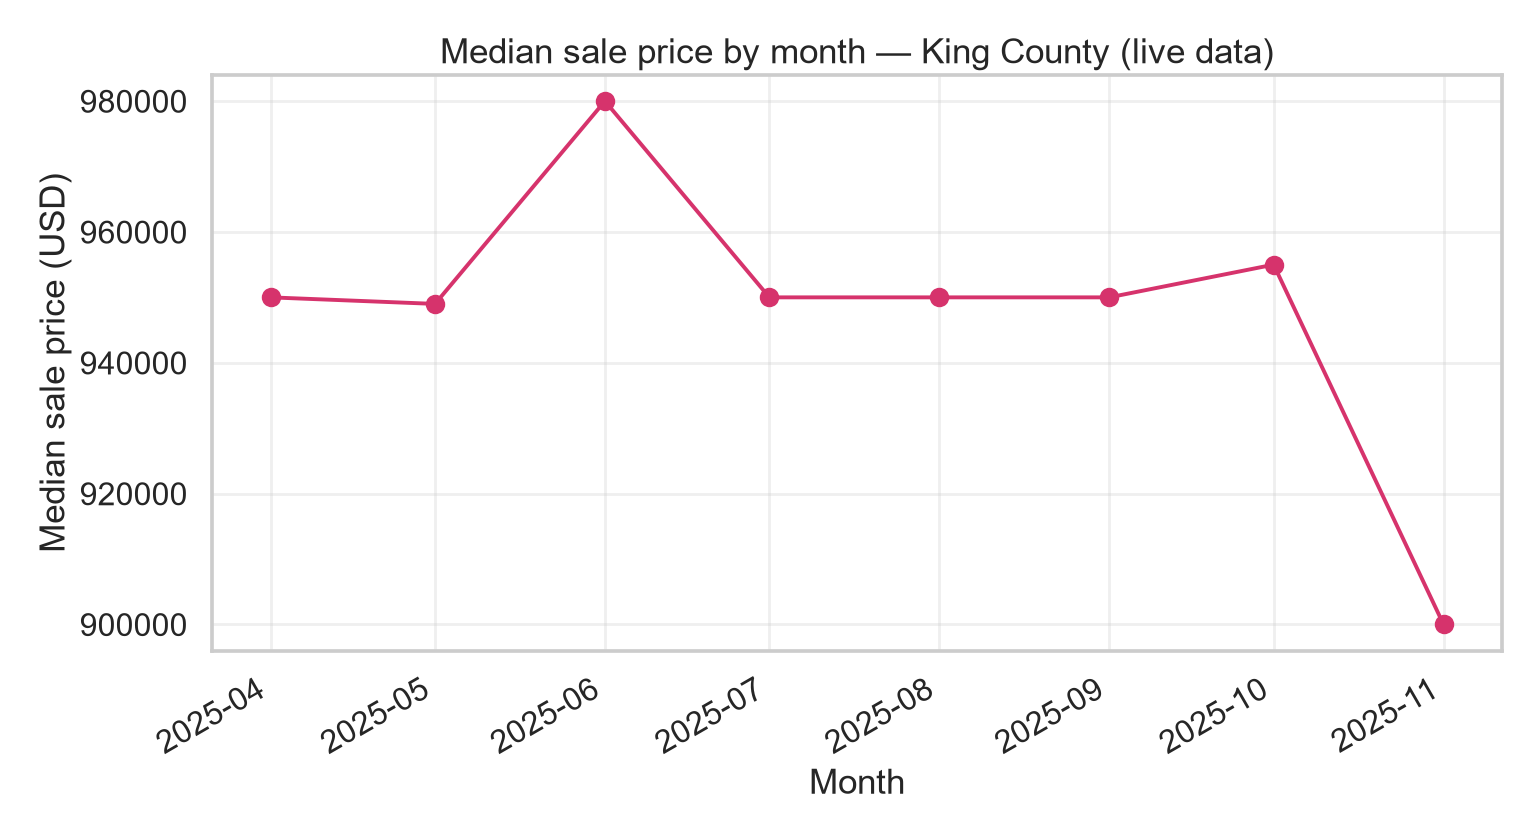
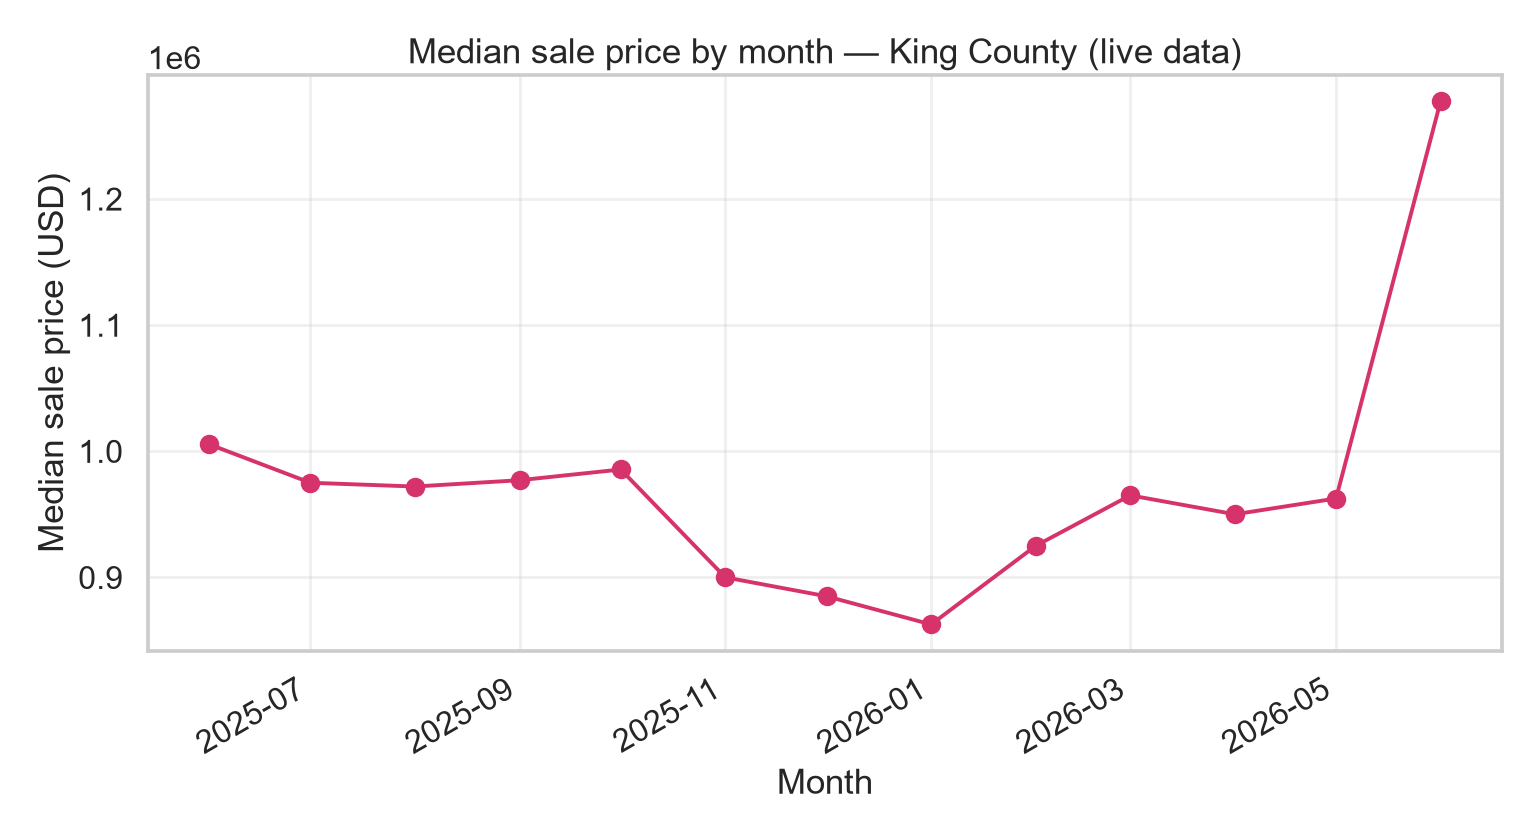
Rebuild market pipeline on current 2026 King County data
The live GIS Sales layer lags ~6 months (topped out at Nov 2025 with zero
2026 records). Switch the data source to the King County Assessor bulk
extracts (refreshed ~weekly; current through Jun 2026).

- Add scripts/build_joined_from_extracts.py: streams EXTR_RPSale +
  EXTR_Parcel + EXTR_RPAcct, applies the assessor valid-sale filter
  (warranty deed + arms-length reason + sale>=40% of assessed value),
  trims to the last 12 months, and enriches with situs ZIP/lot/use from
  the live GIS Parcel layer (which is current). Writes the same
  kc_market_joined.csv schema the downstream scripts already consume.
- current_market_analysis.py: prefer the fresh joined cache over a live
  GIS pull (dev_score_and_shoreline.py and shoreline_zip_map.py already
  read the cache, so no change needed there).
- Regenerate all outputs_current charts/CSVs on the 2025-06 -> 2026-06
  window (18,719 clean residential sales, 78 ZIPs).
- gitignore the large local extracts (data/, *.zip, *.geojson).

diff --git a/Median Zip code project/scripts/build_joined_from_extracts.py b/Median Zip code project/scripts/build_joined_from_extracts.py
@@ -1,0 +1,254 @@
+"""
+Build data/kc_market_joined.csv from the King County Assessor BULK EXTRACTS
+instead of the live GIS REST API.
+
+Why this exists
+---------------
+The live GIS Sales layer (KingCo_PropertyInfo MapServer/3) lags badly — as of
+mid-2026 it topped out at Nov-2025 sales with zero 2026 records. The Assessor's
+downloadable extracts (refreshed ~weekly) carry sales through the current month.
+This script reproduces the same joined schema the downstream scripts expect, so
+dev_score_and_shoreline.py and shoreline_zip_map.py (and the cache branch added
+to current_market_analysis.py) all run on fresh 2026 data with no other changes.
+
+Hybrid data sourcing
+--------------------
+Only the GIS *Sales* layer (Layer 3) lags; the GIS *Parcel* layer (Layer 2) is
+current. So we take the fresh 2026 SALES (dates + prices) from the bulk extract,
+but pull the PARCEL ATTRIBUTES (situs ZIP, lot sqft, present-use, situs address)
+from the live GIS Parcel layer for just the sold PINs. The bulk Account extract
+address is the TAXPAYER MAILING address (owners live nationwide -> hundreds of
+bogus ZIPs), so it is NOT used for the property location.
+
+Inputs (unzipped into data/kc_extract/ from the .zip extracts):
+    EXTR_RPSale.csv          - sales         (Major, Minor, DocumentDate, SalePrice, ...)
+    EXTR_Parcel.csv          - parcel filter (Major, Minor, PropType) -> residential pre-filter
+GIS:
+    KingCo_PropertyInfo MapServer/2 (Parcels) -> ZIP5, LOTSQFT, PREUSE_DESC, ADDR_FULL ...
+
+Output schema (matches the GIS-built cache exactly):
+    PIN, SaleDate, SalePrice, Principal_Use, Property_Type, address,
+    ZIP5, LOTSQFT, PREUSE_DESC, PROPTYPE, CTYNAME, POSTALCTYNAME, ADDR_FULL,
+    zip5, price_per_lot_sqft
+
+Methodology parity with the GIS pipeline:
+    - residential only        (parcel PropType == 'R')
+    - last 12 months           (relative to the max DocumentDate in the data)
+    - all sales in window kept  (not deduped to one-per-PIN)
+    - parcel attrs + situs ZIP from the live GIS Parcel layer (same as original)
+
+Valid-sale filter (the raw extract, unlike the GIS Sales layer, includes every
+recorded deed — quitclaims, gifts, estate settlements, partial-interest, etc.).
+We keep only true arms-length market sales using the King County assessor's
+standard criteria:
+    - SaleInstrument == 3   (Statutory Warranty Deed)
+    - SaleReason     == 1   (None / no special reason)
+    - SalePrice      >= 10,000
+"""
+
+from __future__ import annotations
+
+import csv
+import math
+import sys
+import time
+from pathlib import Path
+
+import pandas as pd
+import requests
+
+PROJECT_ROOT = Path(__file__).resolve().parent.parent
+DATA_DIR = PROJECT_ROOT / "data"
+EXTRACT_DIR = DATA_DIR / "kc_extract"
+OUT = DATA_DIR / "kc_market_joined.csv"
+
+SALES_CSV = EXTRACT_DIR / "EXTR_RPSale.csv"
+PARCEL_CSV = EXTRACT_DIR / "EXTR_Parcel.csv"
+ACCT_CSV = EXTRACT_DIR / "EXTR_RPAcct_NoName.csv"
+
+PARCEL_LAYER = (
+    "https://gismaps.kingcounty.gov/arcgis/rest/services/Property/"
+    "KingCo_PropertyInfo/MapServer/2/query"
+)
+PARCEL_PIN_BATCH = 400
+REQUEST_TIMEOUT = 60
+
+MIN_PRICE = 10_000
+LOOKBACK_MONTHS = 12
+ENC = "latin-1"
+
+# King County "valid sale" codes (see EXTR_LookUp.csv).
+# LUType 6 SaleInstrument: 2 = Warranty Deed, 3 = Statutory Warranty Deed.
+# Recent sales are coded 2 far more often than 3, so accept the warranty-deed
+# family and exclude quitclaims/trustee/executor/bargain-&-sale/generic deeds.
+VALID_INSTRUMENTS = {"2", "3"}
+VALID_REASON = "1"       # LUType 5: None (arms-length)
+
+# Ratio-study guard: drop sales priced implausibly far below the parcel's total
+# assessed value (partial-interest / non-market transfers that still recorded as
+# warranty deeds). Sales on unassessed parcels (total == 0) are kept.
+MIN_SALE_TO_ASSESSED = 0.40
+
+# csv has huge free-text fields in places; lift the field-size cap.
+csv.field_size_limit(10_000_000)
+
+
+def pin(major: str, minor: str) -> str:
+    """King County 10-digit PIN = Major(6) + Minor(4), zero-padded."""
+    return f"{major.strip().zfill(6)}{minor.strip().zfill(4)}"
+
+
+def load_residential_pins() -> set[str]:
+    """Set of PINs whose parcel PropType == 'R' (residential land universe)."""
+    pins: set[str] = set()
+    total = 0
+    with PARCEL_CSV.open(encoding=ENC, newline="") as f:
+        for row in csv.DictReader(f):
+            total += 1
+            if row["PropType"].strip() == "R":
+                pins.add(pin(row["Major"], row["Minor"]))
+    print(f"[parcel] {len(pins):,} residential PINs (of {total:,} total)")
+    return pins
+
+
+def load_assessed_values() -> dict[str, float]:
+    """PIN -> total assessed value (ApprLandVal + ApprImpsVal) from Account extract."""
+    out: dict[str, float] = {}
+    with ACCT_CSV.open(encoding=ENC, newline="") as f:
+        for row in csv.DictReader(f):
+            try:
+                land = float(row["ApprLandVal"].strip() or 0)
+                imps = float(row["ApprImpsVal"].strip() or 0)
+            except ValueError:
+                continue
+            out[pin(row["Major"], row["Minor"])] = land + imps
+    print(f"[account] assessed values for {len(out):,} PINs")
+    return out
+
+
+def fetch_parcel_attrs(pins: list[str]) -> pd.DataFrame:
+    """Live GIS Parcel layer attrs for the sold PINs (current, unlike sales layer)."""
+    print(f"[gis] fetching parcel attrs for {len(pins):,} PINs ...")
+    rows: list[dict] = []
+    batches = math.ceil(len(pins) / PARCEL_PIN_BATCH)
+    for i in range(batches):
+        chunk = pins[i * PARCEL_PIN_BATCH:(i + 1) * PARCEL_PIN_BATCH]
+        in_list = ",".join(f"'{p}'" for p in chunk)
+        params = {
+            "where": f"PIN IN ({in_list})",
+            "outFields": "PIN,ZIP5,LOTSQFT,PREUSE_DESC,PROPTYPE,CTYNAME,POSTALCTYNAME,ADDR_FULL",
+            "returnGeometry": "false",
+            "f": "json",
+        }
+        r = requests.post(PARCEL_LAYER, data=params, timeout=REQUEST_TIMEOUT)
+        r.raise_for_status()
+        body = r.json()
+        if "error" in body:
+            raise RuntimeError(f"Parcel API error batch {i+1}: {body['error']}")
+        rows.extend(f["attributes"] for f in body.get("features", []))
+        print(f"    batch {i+1:>3}/{batches}  total {len(rows):,}")
+        time.sleep(0.05)
+    return pd.DataFrame(rows)
+
+
+def build() -> int:
+    if not SALES_CSV.exists():
+        print(f"Missing {SALES_CSV} — unzip the extracts into {EXTRACT_DIR} first.")
+        return 1
+
+    resid_pins = load_residential_pins()
+    assessed = load_assessed_values()
+
+    print("[sales] streaming sales, keeping residential arms-length ...")
+    rows: list[dict] = []
+    seen = kept = 0
+    drop_price = drop_resid = drop_instrument = drop_reason = drop_ratio = 0
+    with SALES_CSV.open(encoding=ENC, newline="") as f:
+        for row in csv.DictReader(f):
+            seen += 1
+            try:
+                price = float(row["SalePrice"].strip() or 0)
+            except ValueError:
+                continue
+            if price < MIN_PRICE:
+                drop_price += 1
+                continue
+            if row["SaleInstrument"].strip() not in VALID_INSTRUMENTS:
+                drop_instrument += 1
+                continue
+            if row["SaleReason"].strip() != VALID_REASON:
+                drop_reason += 1
+                continue
+            p = pin(row["Major"], row["Minor"])
+            if p not in resid_pins:
+                drop_resid += 1
+                continue
+            total_av = assessed.get(p, 0.0)
+            if total_av > 0 and price < MIN_SALE_TO_ASSESSED * total_av:
+                drop_ratio += 1
+                continue
+            ds = row["DocumentDate"].strip()
+            try:
+                sale_date = pd.Timestamp(ds)  # parses MM/DD/YYYY
+            except (ValueError, TypeError):
+                continue
+            rows.append({
+                "PIN": p,
+                "SaleDate": sale_date,
+                "SalePrice": price,
+                "Principal_Use": "RESIDENTIAL",
+                "Property_Type": row.get("PropertyType", "").strip(),
+            })
+            kept += 1
+    print(f"[sales] scanned {seen:,} rows -> {kept:,} residential arms-length sales")
+    print(f"        dropped: price<{MIN_PRICE} {drop_price:,} | "
+          f"non-warranty instrument {drop_instrument:,} | "
+          f"non-arms-length reason {drop_reason:,} | non-residential {drop_resid:,} | "
+          f"sale<{MIN_SALE_TO_ASSESSED:.0%} assessed {drop_ratio:,}")
+
+    df = pd.DataFrame(rows)
+    df["SaleDate"] = pd.to_datetime(df["SaleDate"], errors="coerce")
+    df = df.dropna(subset=["SaleDate", "PIN", "SalePrice"])
+
+    # Trim to last 12 months relative to max date (same rule as GIS pipeline)
+    max_date = df["SaleDate"].max()
+    cutoff = max_date - pd.DateOffset(months=LOOKBACK_MONTHS)
+    before = len(df)
+    df = df[df["SaleDate"] > cutoff]
+    print(f"[trim] {before:,} -> {len(df):,} rows in window "
+          f"{cutoff.date()} -> {max_date.date()}")
+
+    # Enrich with SITUS parcel attributes from the live GIS Parcel layer
+    unique_pins = df["PIN"].astype(str).unique().tolist()
+    parcels = fetch_parcel_attrs(unique_pins)
+    if parcels.empty:
+        print("[gis] FAILED: no parcel attributes returned")
+        return 2
+    df = df.merge(parcels, on="PIN", how="inner")
+    print(f"[join] {len(df):,} sales matched to GIS parcels")
+
+    # Derived columns to match the cache schema
+    df["zip5"] = df["ZIP5"].astype(str).str.strip().str.zfill(5)
+    df = df[df["zip5"].str.match(r"^\d{5}$")]
+    df["address"] = df["ADDR_FULL"]
+    df["LOTSQFT"] = pd.to_numeric(df["LOTSQFT"], errors="coerce")
+    df["price_per_lot_sqft"] = df.apply(
+        lambda r: (r["SalePrice"] / r["LOTSQFT"])
+        if r["LOTSQFT"] and r["LOTSQFT"] > 0 else None,
+        axis=1,
+    )
+
+    cols = ["PIN", "SaleDate", "SalePrice", "Principal_Use", "Property_Type",
+            "address", "ZIP5", "LOTSQFT", "PREUSE_DESC", "PROPTYPE",
+            "CTYNAME", "POSTALCTYNAME", "ADDR_FULL", "zip5", "price_per_lot_sqft"]
+    df = df[cols]
+    df.to_csv(OUT, index=False)
+    print(f"[out] wrote {len(df):,} rows -> {OUT}")
+    print(f"      ZIPs: {df['zip5'].nunique()}   "
+          f"median price: ${df['SalePrice'].median():,.0f}   "
+          f"usable LOTSQFT: {df['price_per_lot_sqft'].notna().sum():,}")
+    return 0
+
+
+if __name__ == "__main__":
+    sys.exit(build())

diff --git a/Median Zip code project/scripts/current_market_analysis.py b/Median Zip code project/scripts/current_market_analysis.py
@@ -413,24 +413,51 @@ def export_outputs(df: pd.DataFrame, summary: pd.DataFrame) -> None:
 # Orchestration
 # ---------------------------------------------------------------------------
 
+JOINED_CACHE = DATA_DIR / "kc_market_joined.csv"
+
+
+def load_joined_cache() -> pd.DataFrame | None:
+    """Use the joined cache (built from bulk extracts) if it's fresh (<7 days).
+
+    The bulk-extract path carries current 2026 sales; the live GIS Sales layer
+    lags by months. When the cache exists we prefer it so all scripts run on the
+    same fresh data. Falls back to the live GIS pull when no fresh cache exists.
+    """
+    if not JOINED_CACHE.exists():
+        return None
+    age_h = (time.time() - JOINED_CACHE.stat().st_mtime) / 3600
+    if age_h >= 168:
+        return None
+    print(f"[data] Using joined cache {JOINED_CACHE.name} (age {age_h:.1f}h)")
+    df = pd.read_csv(JOINED_CACHE, dtype={"PIN": str, "zip5": str})
+    df["SaleDate"] = pd.to_datetime(df["SaleDate"], errors="coerce")
+    df["LOTSQFT"] = pd.to_numeric(df["LOTSQFT"], errors="coerce")
+    df["price_per_lot_sqft"] = pd.to_numeric(df["price_per_lot_sqft"], errors="coerce")
+    print(f"       {len(df):,} rows loaded from cache")
+    return df
+
+
 def main() -> int:
     print("=" * 70)
-    print("King County current-market analysis (live GIS)")
+    print("King County current-market analysis")
     print("=" * 70)
 
-    try:
-        sales = fetch_recent_sales()
-    except Exception as exc:
-        print(f"[1/5] FAILED: {exc}")
-        traceback.print_exc()
-        return 1
+    df = load_joined_cache()
+    if df is None:
+        print("[data] No fresh cache — pulling live from King County GIS")
+        try:
+            sales = fetch_recent_sales()
+        except Exception as exc:
+            print(f"[1/5] FAILED: {exc}")
+            traceback.print_exc()
+            return 1
 
-    try:
-        df = clean_and_join(sales)
-    except Exception as exc:
-        print(f"[2/5] FAILED: {exc}")
-        traceback.print_exc()
-        return 2
+        try:
+            df = clean_and_join(sales)
+        except Exception as exc:
+            print(f"[2/5] FAILED: {exc}")
+            traceback.print_exc()
+            return 2
 
     try:
         summary = summarize_by_zip(df)
